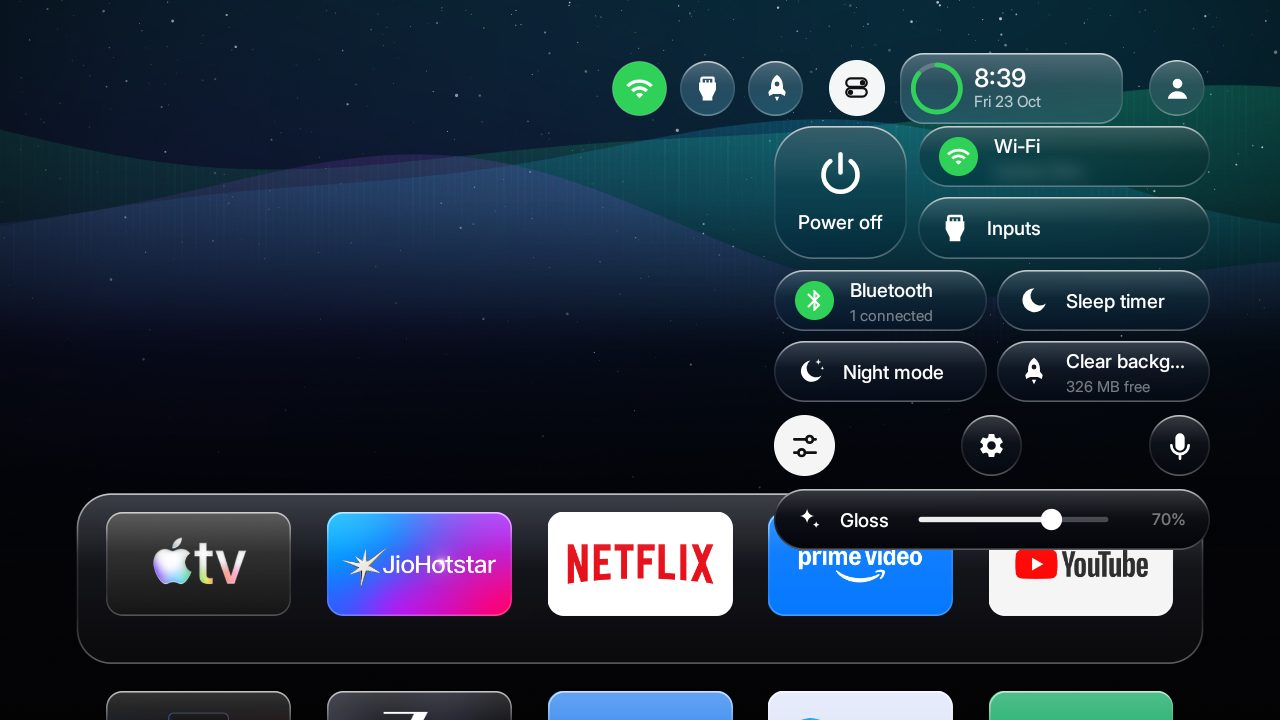
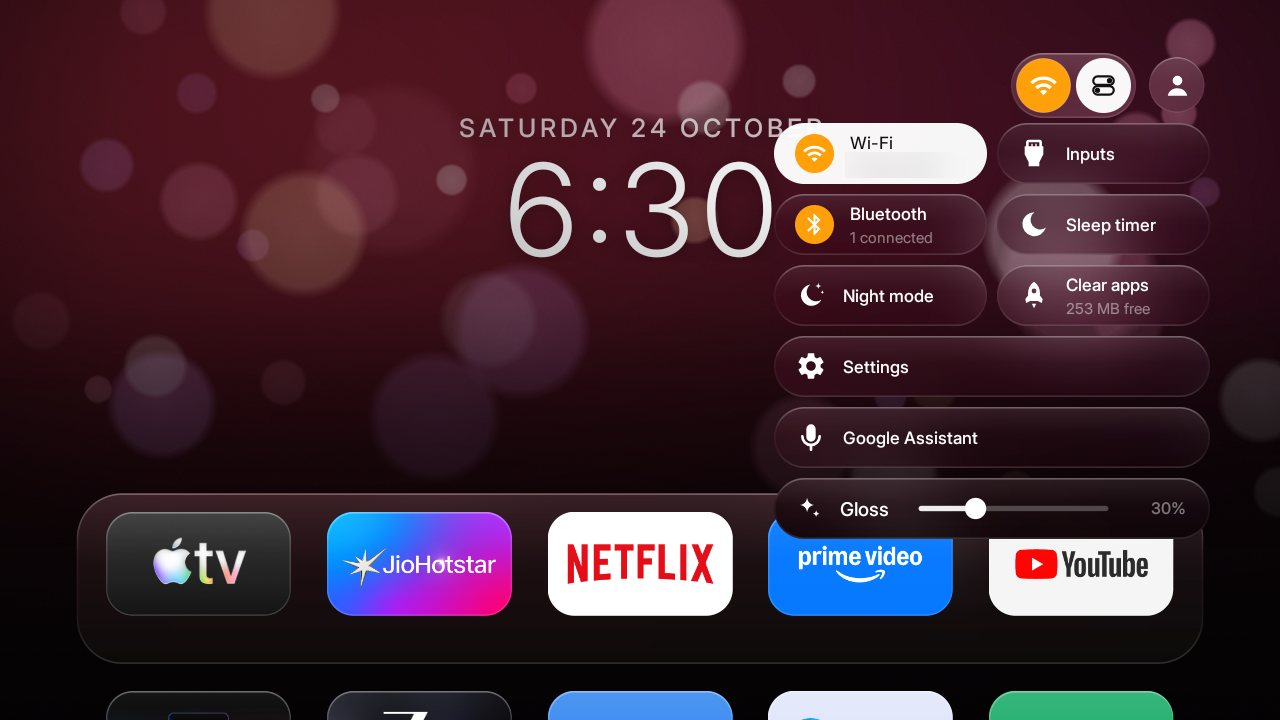
README: big clocks, theme looks, photo themes, Control Center grid, Bluetooth and keyboard, with new screenshots
New screenshots from the TV (Wi-Fi name, nearby devices, QR code and address blurred): a big clock,
a theme's own look, Control Center, photos from a phone, the Apple TV keyboard, the Bluetooth card and
the Bluetooth-off warning. The feature table, the how-to and the launcher's network note follow the build.

diff --git a/README.md b/README.md
@@ -24,20 +24,23 @@ with Android 8 or newer; see [Using it on another TV](#using-it-on-another-tv).
 | **Gloss slider** | In the Control Center: Left and Right set how glossy everything is, from flat frosted glass (0%) to bright rims (100%). Remembered across restarts. |
 | **tvOS focus** | The focused icon lifts with a shadow, tilts toward the way you moved, and catches a sweep of light. Its name appears underneath. |
 | **Frosted grid** | Below the top row, the whole background blurs and dims, as on tvOS. |
-| **Themes** | TvOS (the slideshow) and ten painted on the TV itself, each with its own pattern: Aurora curtains, a Sunset over mountain ridges, Ocean waves, Midnight contour lines, Graphite hexagons, Forest pines, Rose bokeh, a Nebula planet, Dune sand and a Neon synthwave grid. Each one's accent colour, pattern strength and brightness can be changed, and your own pictures become themes too. The glass, the header and the dock adapt to whatever is behind them. |
-| **Control Center** | Power off, Wi-Fi, Inputs (HDMI and Live TV), Bluetooth (paired and nearby devices, pair and connect), Sleep timer, Clear background apps, Home settings, Settings and Google Assistant, each its own glass control. Add, remove and reorder them, and pin any of them to Home as a round symbol beside the clock. |
-| **Status symbols** | What is on (Wi-Fi, a Bluetooth speaker or headphones, a running sleep timer) shows beside the clock, filled with the theme's accent colour. |
-| **Settings in the launcher** | Wi-Fi (networks, connect with a password, forget), Bluetooth, Inputs, Picture & sound, Apps, About & storage, Themes, Welcome, Volume display, Clock and Clear background apps, all in compact glass cards; one row still leads to Android's own settings. |
+| **Themes** | TvOS (the slideshow) and fifteen painted on the TV itself, each with its own pattern: Aurora curtains, a Sunset over mountain ridges, Ocean waves, Midnight contour lines, Graphite hexagons, Forest pines, Rose bokeh, a Nebula planet, Dune sand, a Neon synthwave grid, and five with a look of their own (Studio, Editorial, Retro, Glacier, Moss) that bring their own clock and tile corners. Every theme keeps its own name, accent, clock, clock position and tile corners (soft, round or sharp). The glass, the header and the dock adapt to whatever is behind them. |
+| **Your photos as themes** | Send photos from your phone: the TV shows a QR code, the phone opens a small page on your home network and each photo you pick becomes a theme of its own (only while that page is open). Photos on the TV or a USB drive (DCIM, Pictures, Download, Bluetooth) can be added too. Each photo is turned upright and fits itself (a portrait photo shows whole on a blurred copy of itself), with Fit, Position and Zoom to adjust; rename it; the header symbols and clock take a tint of its colours. **Your photos slideshow** cycles through them every 1 to 60 minutes with a cross-fade. |
+| **Control Center** | Power off, Wi-Fi, Inputs (HDMI and Live TV), Bluetooth, Sleep timer, Clear background apps, Home settings, Settings and Google Assistant, each its own glass control, laid out on one even grid. Add, remove and reorder them, make each one half width, full width or a round button, and pin any of them to Home as a round symbol beside the clock. |
+| **Bluetooth in Home** | Paired and nearby devices in a card. The search keeps going past the Xiaomi remote service that stops it; pairing happens under the launcher's own "Pairing with…" card (a small accessibility helper answers Android's pairing window for a pairing you started) and the headphones' sound connects straight after, with "Connected" or "Couldn't pair" shown. Each device has its own page (connect, disconnect, forget). Turning Bluetooth off asks first in a large window, since the Mi remote is Bluetooth too. |
+| **Apple TV keyboard** | A keyboard like Apple TV's: the alphabet on one line, tabs for capitals, numbers and symbols, @ and .com for addresses. Made the TV's keyboard once; Gboard is a choice away in Settings, Keyboard. |
+| **Status symbols** | What is on (Wi-Fi, a Bluetooth speaker or headphones, a running sleep timer) shows beside the clock, filled with the theme's accent colour, all in one glass capsule with the Control Center button. |
+| **Settings in the launcher** | Grouped as on tvOS (Connections, Look & feel, Sound, System, Device): Wi-Fi (networks, connect with a password, forget), Bluetooth, Inputs, Themes, Clock, Welcome, Volume display, Night mode, Picture & sound, Sounds, Apps, Control Center, Clear background apps, and the TV's own settings done in the launcher: Display & screensaver (which screensaver, when, sleep, text size, animation speed), Date & time, Keyboard, Privacy & location and Device name. Every other Android page this TV has (Picture, Language, Accessibility, Developer options, Reset and more) opens straight from More Android settings. |
 | **Welcome banners** | One when the TV starts and one when it wakes, each with its own glossy 3D emoji, greeting, message and time on screen. |
 | **Volume display** | Six styles (Glass pill, tvOS bar, Side slider, Ring, Classic, Minimal line), in the theme's colour or one you choose, with a mute icon that stays while muted. Shown beside the TV's own volume bar; the Side slider sits over it and hides it. |
 | **Clear background apps** | Ends the background apps (never the launcher, the keyboard, Google services or your remote helpers) and shows the memory freed. |
-| **Clock** | Six styles (Light, Bold, Time and date, Glass pill, Large, and a widget card with a ring that fills through the day), beside the profile picture or left of the symbols. A night clock fills the empty top of Home with a big dim clock during your hours. |
+| **Clock** | Eight styles (Light, Bold, Time and date, Glass pill, Large, a widget card with a ring that fills through the day, Stacked hours over minutes, and Day: weekday, time and date), small in the header or big in the open sky above the apps (top left or centred), or hidden. Digits keep their width, so nothing shifts as they change. A night clock fills the empty top of Home with a big dim clock during your hours. |
 | **Night mode** | One tap halves the volume, dims the background, silences the click sounds and sets a 60-minute sleep timer; tap again to put it all back. |
 | **Sounds** | Six sound packs (Glass, Pop, Wood, Chime, Crystal, Click) for moving, OK and Back, each previewed as you browse; Soft, Normal or Loud; and very soft welcome and goodbye chimes. Synthesised for this launcher (`launcher/make_sounds.py`). |
 | **Option lists** | Every setting with several choices opens a list of them all, the current one ticked. |
 | **Profile** | Your picture (`profile.jpg` in the theme folder) beside the clock; it opens an account card with your Google account, Themes and Welcome. |
 | **Reorder mode** | Icons jiggle while you move them, as on tvOS. |
-| **Opening apps** | The app zooms out of its icon. |
+| **Opening apps** | The app zooms out of its icon. OK squeezes what you press, menus close quicker than they open, and the light on an icon sweeps the way you moved. |
 | **Sounds** | Its own soft tick when focus moves and a tock on OK, instead of Android's click. They follow the TV's sound-effects setting. |
 | **Aerial screensaver** | Optional add-on: the landscapes slowly zoom and drift when the TV is idle. |
 | **Typeface** | Inter throughout, the closest open-licence match to Apple's SF Pro. |
@@ -48,8 +51,14 @@ with Android 8 or newer; see [Using it on another TV](#using-it-on-another-tv).
 |---|---|
 | ![A sunset over the sea between mountains behind the glass top row](docs/tvos/beach.jpg) | ![A mountain lake reflecting the peaks behind the glass top row](docs/tvos/lake.jpg) |
 | Another landscape from the slideshow | And another |
-| ![The Control Center: Power off, Wi-Fi (network name blurred), Inputs, Bluetooth, Sleep timer, Night mode, Clear background apps, round buttons and the Gloss slider](docs/tvos/control-center.jpg) | ![Below the top row the background is frosted behind the app grid](docs/tvos/grid.jpg) |
-| Control Center with the Gloss slider | Frosted grid below the top row |
+| ![The Editorial theme: the weekday, a big thin clock and the date centred above the top row over rose bokeh](docs/tvos/big-clock.jpg) | ![The Editorial theme's page: name, accent colour, clock style and position, app tiles and pattern](docs/tvos/theme-look.jpg) |
+| A big clock (Editorial theme) | Each theme's own clock, tiles and name |
+| ![Control Center on one grid: Wi-Fi (network name blurred), Inputs, Bluetooth, Sleep timer, Night mode, Clear apps, full-width Settings and Google Assistant, and the Gloss slider](docs/tvos/control-center.jpg) | ![Below the top row the background is frosted behind the app grid](docs/tvos/grid.jpg) |
+| Control Center, sizes of your choice | Frosted grid below the top row |
+| ![From your phone: a QR code and the TV's address (both blurred) and the photos as they arrive](docs/tvos/upload.jpg) | ![The Apple TV keyboard: the alphabet on one line under abc, ABC, 123, #+= and Done tabs](docs/tvos/keyboard.jpg) |
+| Photos from your phone | Apple TV keyboard |
+| ![The Bluetooth card: the connected remote, nearby devices to pair (names blurred) and paired devices](docs/tvos/bluetooth.jpg) | ![Turn off Bluetooth? A large window warning that the remote stops working, with Keep Bluetooth on and Turn off Bluetooth radio buttons and Done](docs/tvos/bluetooth-off.jpg) |
+| Bluetooth in Home | Turning Bluetooth off asks first |
 | ![The Neon theme: a striped synthwave sun over a glowing grid](docs/tvos/theme-neon.jpg) | ![Settings, Themes: each theme with a preview of its pattern](docs/tvos/themes.jpg) |
 | The Neon theme | Themes, with a preview of each pattern |
 | ![The volume display as a glass pill under the header, beside the TV's own bar](docs/tvos/volume.jpg) | ![Reorder mode: the icons wobble at slightly different angles](docs/tvos/reorder.jpg) |
@@ -109,11 +118,18 @@ Python client in `tools/` works around it.
 
 - **Gloss:** the slider at the bottom of the Control Center.
 - **Settings:** the gear in Control Center, or hold OK on the Control Center button.
-- **Themes:** Settings, Themes. OK switches; Right (or Menu) opens a theme's accent, pattern and brightness.
-- **Your own pictures as themes:** put them in a folder named `TV Themes` on a USB drive and choose Add under
-  Settings, Themes; or put them in `themes/liquid-glass/mythemes/` and push the theme.
+- **Themes:** Settings, Themes. OK switches; Right (or Menu) opens a theme's name, accent, clock, tiles,
+  pattern and brightness.
+- **Your own photos as themes:** Settings, Themes, From your phone: scan the code with your phone on the same
+  Wi-Fi and pick photos. Or On this TV or a USB drive, or put them in `themes/liquid-glass/mythemes/` and push
+  the theme. Each photo's page has Fit, Position, Zoom and Icon colour; Your photos slideshow cycles them.
+- **Clock:** a theme's page, Clock style and Clock position (Big, top left or Big, centred for the open sky).
+- **Bluetooth:** Control Center, Bluetooth. New devices are listed first with Pair; OK on a paired one opens its
+  page. Pairing in Home needs the "Bluetooth pairing in Home" helper, which the launcher switches on itself.
+- **Keyboard:** Settings, Keyboard, to go back to Gboard or any other.
 - **Control Center and Home symbols:** hold OK (or press Menu) on any control for Show on Home, Remove from
-  Control Center and the full list (Settings, Control Center & Home), where you can also reorder them.
+  Control Center and the full list (Settings, Control Center & Home), where you can also reorder them and pick
+  each one's size (half width, full width or round button).
 - **Night mode:** a row in Settings; it is also in Control Center and shows a symbol beside
   the clock while on.
 - **Sounds:** Settings, Sounds. Move through the packs to hear each one.
@@ -643,7 +659,8 @@ apps), which is why the report names that loss per package instead of calling it
 ## The launcher
 
 A small native home screen for Android TV: **about 474 KB**, plain Java, built for TVs with 1 GB of RAM.
-No blur, no video, no network permission, no background services.
+No blur, no video, no background services. This fork adds one network use, the tvOS style's "From your
+phone" photo page, which listens on the home network only while that page is open.
 
 The **TV** needs Android 8.0 (API 26) or newer: `minSdk` is a compile-time floor in
 [`launcher/app/build.gradle`](launcher/app/build.gradle), and the install script asks the TV for
